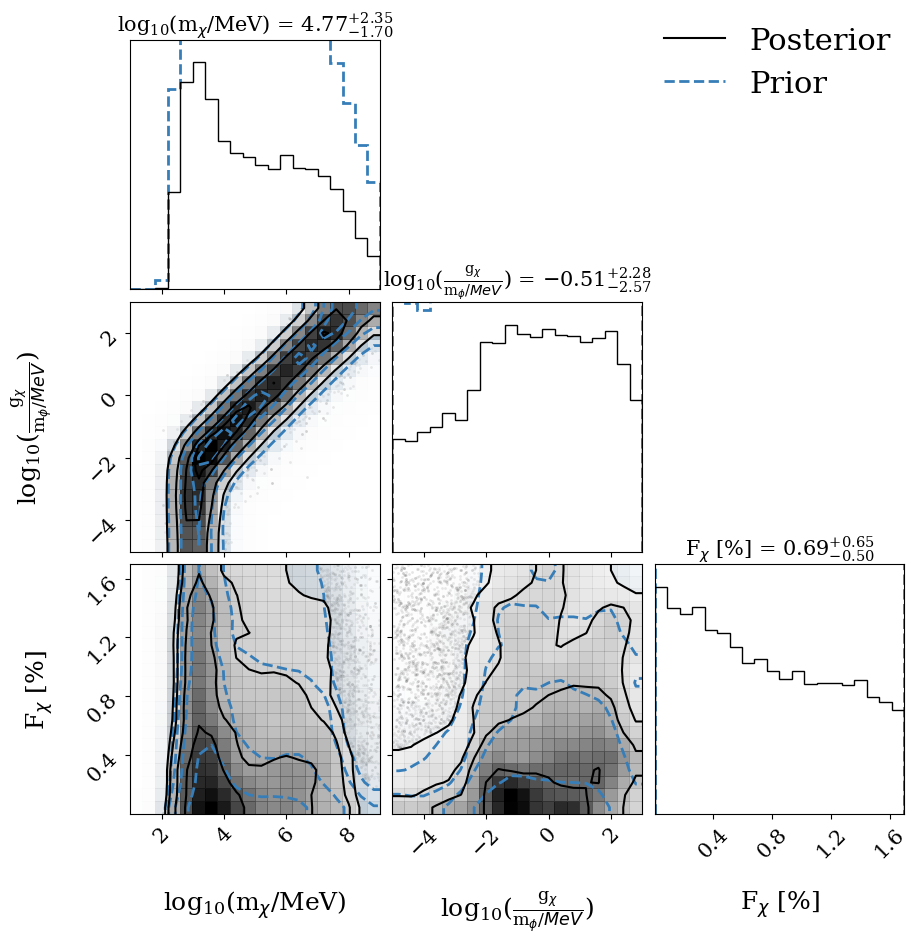
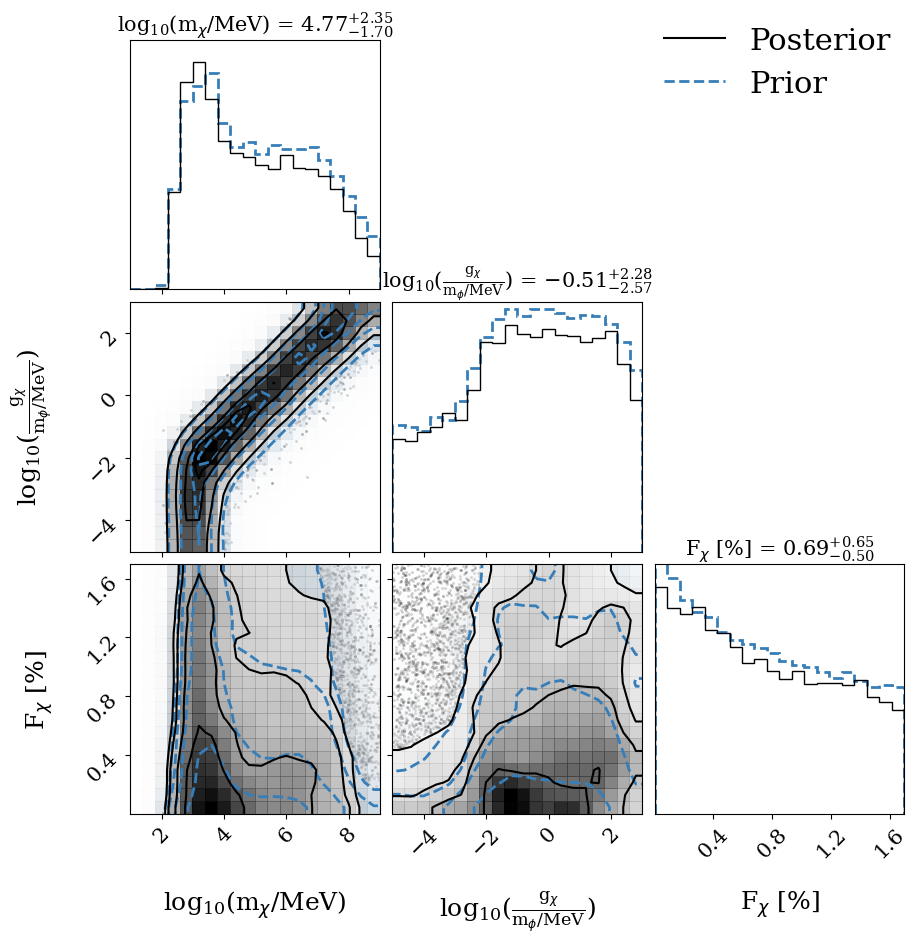
Fixed Figure 3.

diff --git a/plot_routines/Figure_3.py b/plot_routines/Figure_3.py
@@ -106,13 +106,14 @@ for i in range(len(mchi)):
     Matrix[i] =np.log10(mchi[i]),np.log10(gchi_over_mphi[i]),Fchi[i]
 
     
-    
+ 
 ell = corner.corner(Matrix_prior,smooth = 1.0,color = '#377eb8',group = 'prior',range = [(1,9),(-5,3),(0,1.7)],
                    plot_datapoints = False,plot_density = True,plot_contours = True,divergences = False,
                     hist_kwargs = {'linestyle': '--','linewidth': 2.0}, contour_kwargs = {'linestyles':'dashed','linewidths': 2.0})
 
-
-figure = corner.corner(Matrix,smooth = 1.0,fig = ell,labels = [r"log$_{10}$(m$_\chi$/MeV)",r"log$_{10}$($\frac{\mathdefault{g}_\chi}{\mathdefault{m}_\phi/MeV})$",r"F$_\chi$ [%]"],
+#Here we are simply stacking the Matrix posteriors to get the priors and posteriors to show up together in the corner plot (really in the 1-D histograms)
+Matrix = np.vstack((Matrix,Matrix))
+figure = corner.corner(Matrix,smooth = 1.0,fig = ell,labels = [r"log$_{10}$(m$_\chi$/MeV)",r"log$_{10}$($\frac{\mathdefault{g}_\chi}{\mathdefault{m}_\phi/\mathrm{MeV}}$)",r"F$_\chi$ [%]"],
                       range = [(1,9),(-5,3),(0,1.7)], show_titles = True,label_kwargs = {"fontsize":18,"font":'serif'},title_kwargs = {"fontsize":15})
 figure.subplots_adjust(right=1.15,top=1.15)
 
